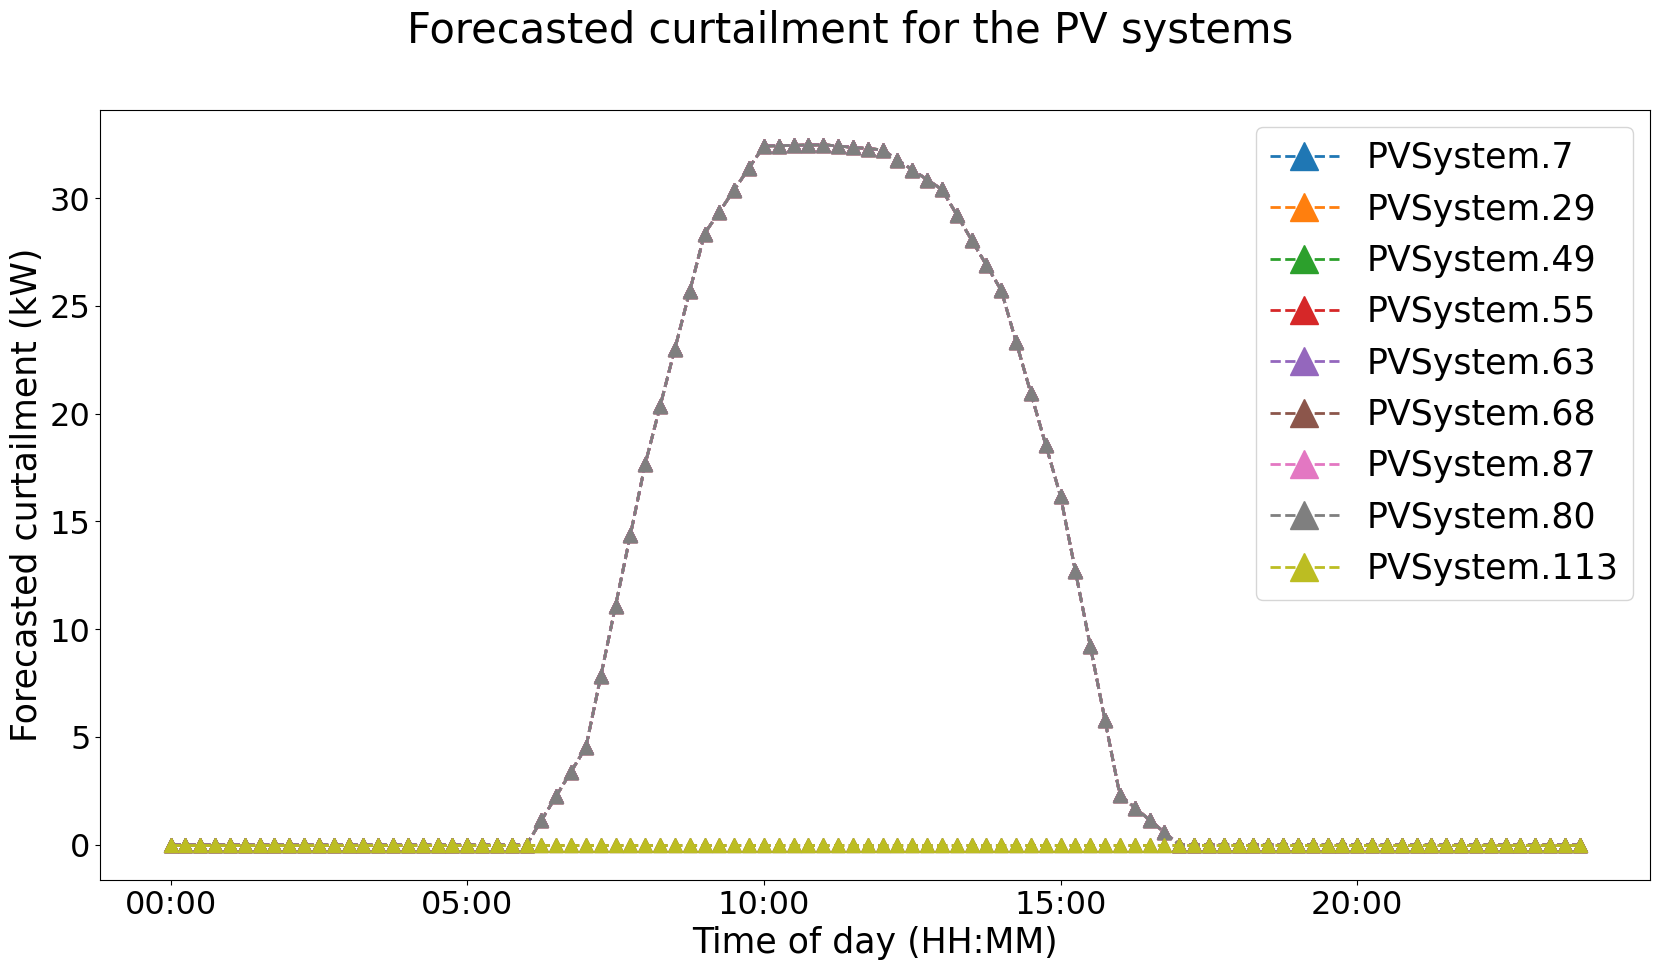
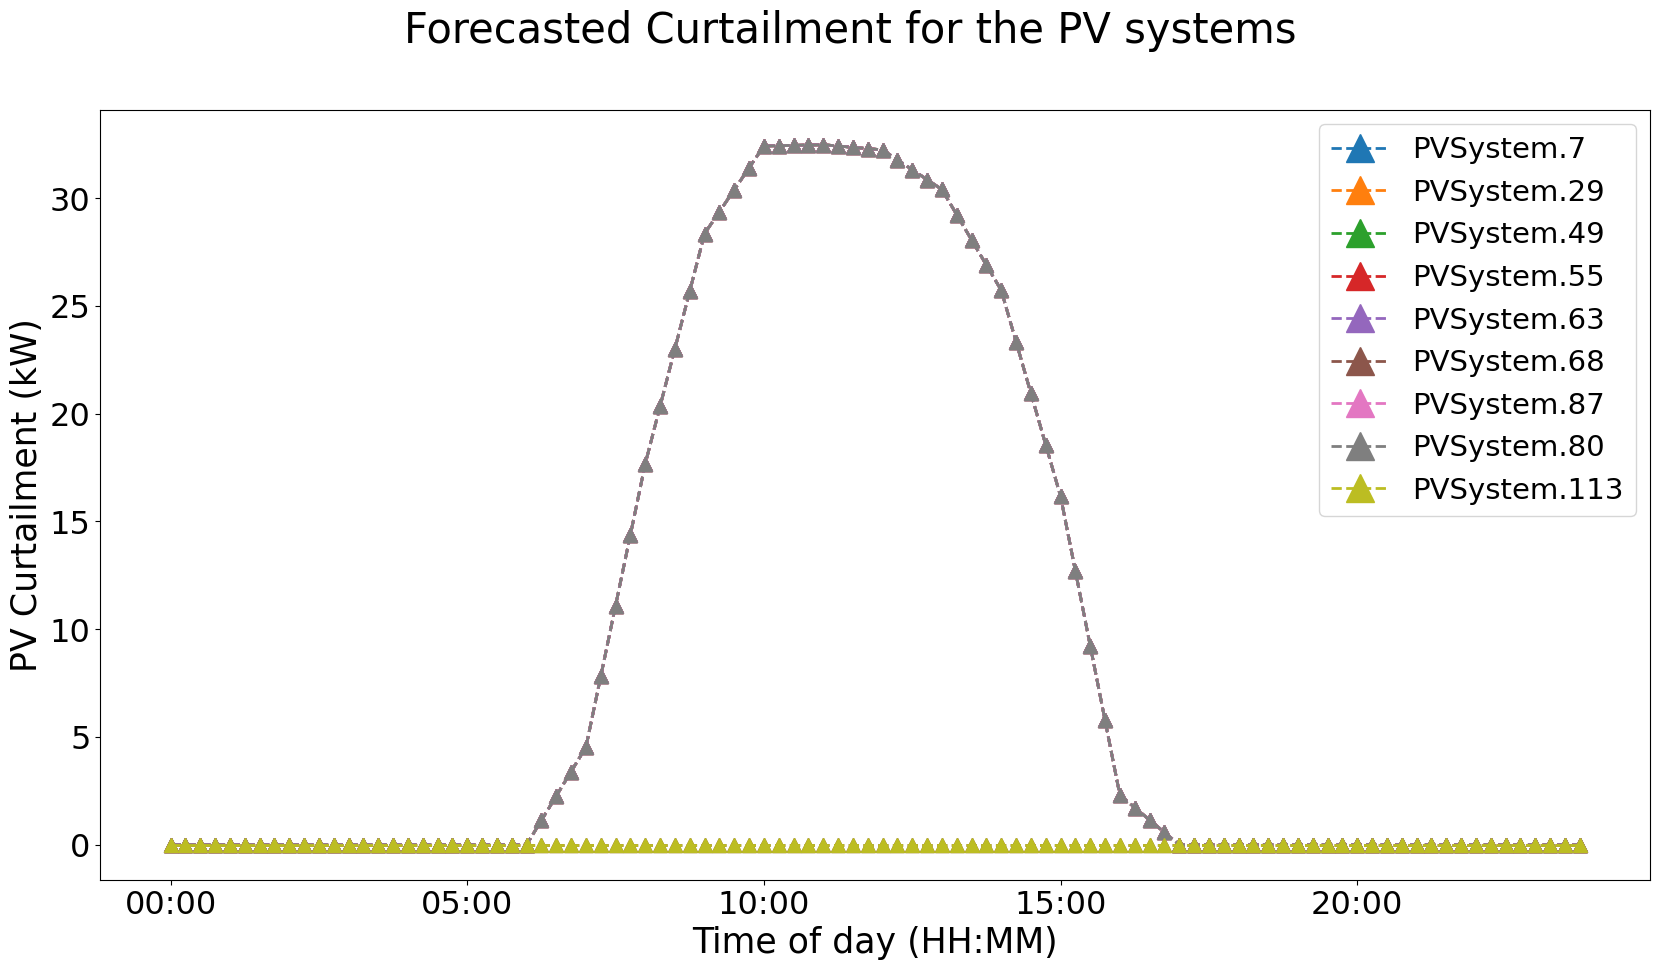
evaluate curtailment checked for medium

diff --git a/lindistflow_federate/opf_federate.py b/lindistflow_federate/opf_federate.py
@@ -93,6 +93,11 @@ class OPFFederate(object):
             self.inputs["voltages_magnitude"], "")
         self.sub.injections = self.fed.register_subscription(
             self.inputs["injections"], "")
+        
+        # add subscription to get available PV
+        self.sub.available_pv = self.fed.register_subscription(
+            self.inputs["pv_available"], "")
+
         # Optional subscription: PV forecast
         self.sub.pv_forecast = self.fed.register_subscription(
             self.inputs["pv_forecast"], "")
@@ -114,6 +119,9 @@ class OPFFederate(object):
 
         self.pub_curtail_forecast = self.fed.register_publication(
             "forecast_curtail", h.HELICS_DATA_TYPE_STRING, ""
+        )
+        self.pub_curtail = self.fed.register_publication(
+            "real_curtail", h.HELICS_DATA_TYPE_STRING, ""
         )
     
     def get_set_points(self, control, bus_info, conversion):
@@ -220,6 +228,11 @@ class OPFFederate(object):
             injection = Injection.parse_obj(self.sub.injections.json)
             area_bus = adapter.extract_injection(area_bus, injection)
 
+            # get the available power in real time
+            available_power = self.sub.available_pv.json
+            available_power = {available_power["ids"][i]:available_power["values"][i] for i in range(len(available_power["ids"]))}
+            
+
             voltages, power_flow, control, conversion = lindistflow.optimal_power_flow(
                 area_branch, area_bus, slack_bus, self.static.control_type, self.static.pf_flag)
             real_setpts = self.get_set_points(control, area_bus, conversion)
@@ -229,12 +242,16 @@ class OPFFederate(object):
             pveq_id = []
             delta_setpt = []
             forecast_curtail = []
+            real_curtail = []
             for eq_id in real_setpts:
                 pveq_id.append(eq_id)
                 delta_setpt.append(real_setpts[eq_id]-forecast_setp[eq_id][time_ctr])
                 forecast_curtail.append(forecast_curt[eq_id][time_ctr])
+                real_curtail.append(available_power[eq_id] - real_setpts[eq_id])
+
             delta_sp = xr.DataArray(delta_setpt, coords={"ids": pveq_id})
             fore_curt = xr.DataArray(forecast_curtail, coords={"ids": pveq_id})
+            real_curt = xr.DataArray(real_curtail, coords={"ids": pveq_id})
             self.pub_delta_setpt.publish(
                 MeasurementArray(
                     **xarray_to_dict(delta_sp),time=time,
@@ -244,6 +261,12 @@ class OPFFederate(object):
             self.pub_curtail_forecast.publish(
                 MeasurementArray(
                     **xarray_to_dict(fore_curt),time=time,
+                    units="kW",
+                    ).json()
+                )
+            self.pub_curtail.publish(
+                MeasurementArray(
+                    **xarray_to_dict(real_curt),time=time,
                     units="kW",
                     ).json()
                 )

diff --git a/post_process/plotter.py b/post_process/plotter.py
@@ -672,18 +672,18 @@ def compare_network(
     pass
 
 
-def plot_curtail_forecast(
-        curtail_forecast_file, 
+def plot_curtail(
+        curtail_file, 
         pv_systems=None,
         to_file = None, show=True, do_return=False, 
         **kwargs
         ):
-    df_curtail_forecast = feather.read_feather(curtail_forecast_file)
-    df_curtail_forecast["time"] = df_curtail_forecast["time"].apply(get_time)
-    df_curtail_forecast.set_index("time")
+    df_curtail = feather.read_feather(curtail_file)
+    df_curtail["time"] = df_curtail["time"].apply(get_time)
+    df_curtail.set_index("time")
 
     if not pv_systems:
-        pv_systems = df_curtail_forecast.columns.tolist()
+        pv_systems = df_curtail.columns.tolist()[:10]
     
     # keyword arguments
     figsize = kwargs.get('figsize', (20, 10))
@@ -691,23 +691,24 @@ def plot_curtail_forecast(
     label_fontsize = kwargs.get('fontsize', 25)
     ticklabel_fontsize = label_fontsize - 2
     title_fontsize = label_fontsize + 5
+    suptitle_pfx = kwargs.get('suptitle_pfx', "Forecasted ")
 
     fig, ax = plt.subplots(1,1,figsize=figsize, constrained_layout=constrained_layout)
-    df_curtail_forecast.plot.line(
+    df_curtail.plot.line(
         y = pv_systems, ax=ax, 
         marker="^", markersize=10, 
         linestyle="dashed", linewidth=2.0
     )
     # Formatting
     x_pts = [0,20,40,60,80]
-    xtix = [df_curtail_forecast["time"][x] for x in x_pts]
+    xtix = [df_curtail["time"][x] for x in x_pts]
     ax.set_xlabel("Time of day (HH:MM)", fontsize=label_fontsize)
-    ax.set_ylabel("Forecasted curtailment (kW)", fontsize=label_fontsize)
-    ax.legend(fontsize=label_fontsize, markerscale=2, ncols=1)
+    ax.set_ylabel("PV Curtailment (kW)", fontsize=label_fontsize)
+    ax.legend(fontsize=label_fontsize-4, markerscale=2, ncols=1)
     ax.set_xticks(x_pts, labels=xtix, fontsize=ticklabel_fontsize)
     ax.tick_params(axis="y", labelsize=ticklabel_fontsize)
 
-    suptitle = "Forecasted curtailment for the PV systems"
+    suptitle = f"{suptitle_pfx}Curtailment for the PV systems"
     fig.suptitle(suptitle, fontsize=title_fontsize)
 
     if to_file:

diff --git a/post_process/post_analysis.py b/post_process/post_analysis.py
@@ -19,7 +19,8 @@ def plot_result_case(
     real_voltage_filepath = os.path.join(directory, "voltage_real.feather")
     imag_voltage_filepath = os.path.join(directory, "voltage_imag.feather")
     opf_voltage_filepath = os.path.join(directory, "opf_voltage_mag.feather")
-    delta_setpoint_file = os.path.join(directory, "forecast_curtail.feather")
+    forecast_curtail_file = os.path.join(directory, "forecast_curtail.feather")
+    real_curtail_file = os.path.join(directory, "real_curtail.feather")
 
     # Voltage heatmaps of time steps
     fig_filename = os.path.join(directory, f"network_{casename}.png")
@@ -68,10 +69,18 @@ def plot_result_case(
 
     # Plot delta setpoints (DOPF 2 use case results)
     fig_filename = os.path.join(directory, f"forecast_curtail_{casename}.png")
-    plotter.plot_curtail_forecast(
-        delta_setpoint_file,
+    plotter.plot_curtail(
+        forecast_curtail_file,
         show=False, 
-        to_file=fig_filename
+        to_file=fig_filename,
+        suptitle_pfx = "Forecasted "
+    )
+    fig_filename = os.path.join(directory, f"real_curtail_{casename}.png")
+    plotter.plot_curtail(
+        real_curtail_file,
+        show=False, 
+        to_file=fig_filename,
+        suptitle_pfx = "Real-time "
     )
     return
 

diff --git a/lindistflow_federate/adapter.py b/lindistflow_federate/adapter.py
@@ -101,6 +101,7 @@ def pack_voltages(voltages: dict, time: int) -> VoltagesMagnitude:
 def extract_forecast(bus:dict, forecast) -> dict:
     for eq, power in zip(forecast["ids"], forecast["values"]):
         [_, name] = eq.split('.')
+        name = name.split('_')[-1].upper()
 
         if name not in bus:
             continue
